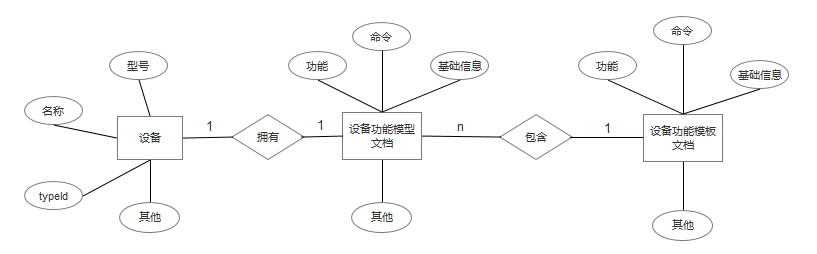
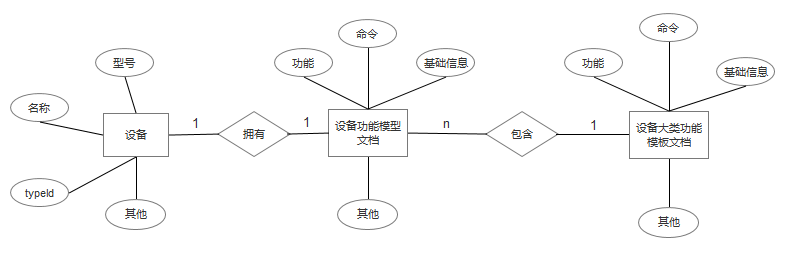
更新APP设备功能开发方案
更新APP设备功能开发方案

diff --git a/zh-cn/Solutions/sl7.md b/zh-cn/Solutions/sl7.md
@@ -12,17 +12,17 @@
 
 ### 前提    
 
-?> 硬件开发者需在海极网创建设备。可参考《U+开放平台产品接入操作手册》。 
+?> 硬件开发者需在海极网创建设备或已有采购的海尔设备。可参考《U+开放平台产品接入操作手册》。 
 
 
 ### 名词解释  
 
-**设备功能模板：**    
+**设备大类功能模板：**    
 
 某类设备的功能集文档，由海极网提供，通常该类设备的功能模板至少有一个。例如柜机空调设备的柜机空调模板、分体空调设备的分体空调模板、冰箱设备的冰箱模板和IFT带屏模板，等等。  
 
 
-**设备功能模型：**  
+**设备功能模型文档：**  
 
 某一设备的功能集文档，由海极网提供，通常一台设备的功能模型文档有一个。
 
@@ -47,8 +47,26 @@
 
 -->
 
-### 应用场景  
+### 业务流程  
 
+B端平台与U+平台对接，选定设备型号，按照功能模型文档进行对接开发完成后，更换或添加同品类新型号设备时，无需重新对接开发。  
+
+![业务流程图片][sl7_yewu]   
+
+例如，某B端平台选定了一批设备（比如XX1型号的冰箱）与U+平台进行对接，需要根据冰箱类设备功能模板和自身业务现状，选取冰箱类设备的公共功能进行设备功能模板界面开发，然后根据XX1型号的功能模型文档与开发好的设备功能模板界面匹配渲染，从而显示或隐藏相应的功能界面；交付运营一段时间后，该平台需要增加XX2型号的冰箱，进行功能升级，此时B端平台只需要根据新型号的功能模型文档，与事先开发的冰箱类功能模板界面进行匹配渲染即可，无需重新进行对接开发工作，如果冰箱类设备功能模板界面里没有XX2型号的功能则需开发者自行添加。
+ 
+
+
+
+
+
+
+
+
+
+
+### 开发流程   
+ 
 ![整体方案图片][sl7_ztfa]  
 
 1、	应用开发者根据设备功能模板开发自己所需的设备功能界面模板；  
@@ -67,23 +85,23 @@
 | 3    | APP设备列表界面  |应用开发者 |列表界面由APP开发者开发 |  
 | 4    | APP设备功能界面  |应用开发者 |通过匹配渲染设备功能界面模板获得 |  
   
-  
+<!--    
 
 ### 开发APP设备功能流程图   
 
 
 ![流程图][sl7_rjgc]  
 
+-->
 
-
-### 设备功能模板获取方式  
+### 设备大类功能模板获取方式  
 
   
 ?> 联系海极网王少辉（wangshaohui@haier.com）获取。  
 
 
 
-### 设备功能模型数据获取方式  
+### 设备功能模型文档获取方式  
 
 ?> 为json格式数据，联系海极网王少辉（wangshaohui@haier.com）获取。  
 
@@ -97,4 +115,6 @@
 
 [sl7_rjgc]:_media/_Solutions/sl7rjgc.png  
 
-[sl7_er]:_media/_Solutions/sl7er.png     
+[sl7_er]:_media/_Solutions/sl7er.png    
+
+[sl7_yewu]:_media/_Solutions/sl7yewu.png    
